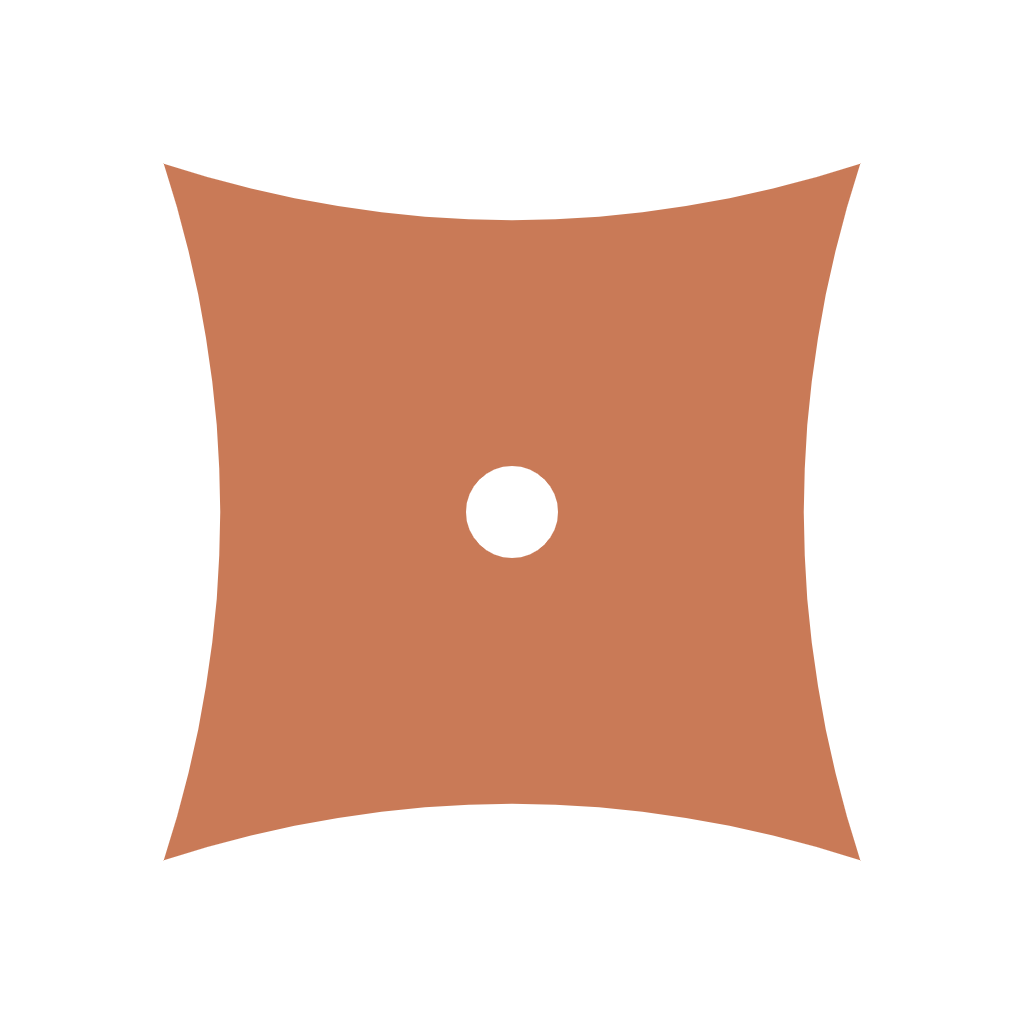
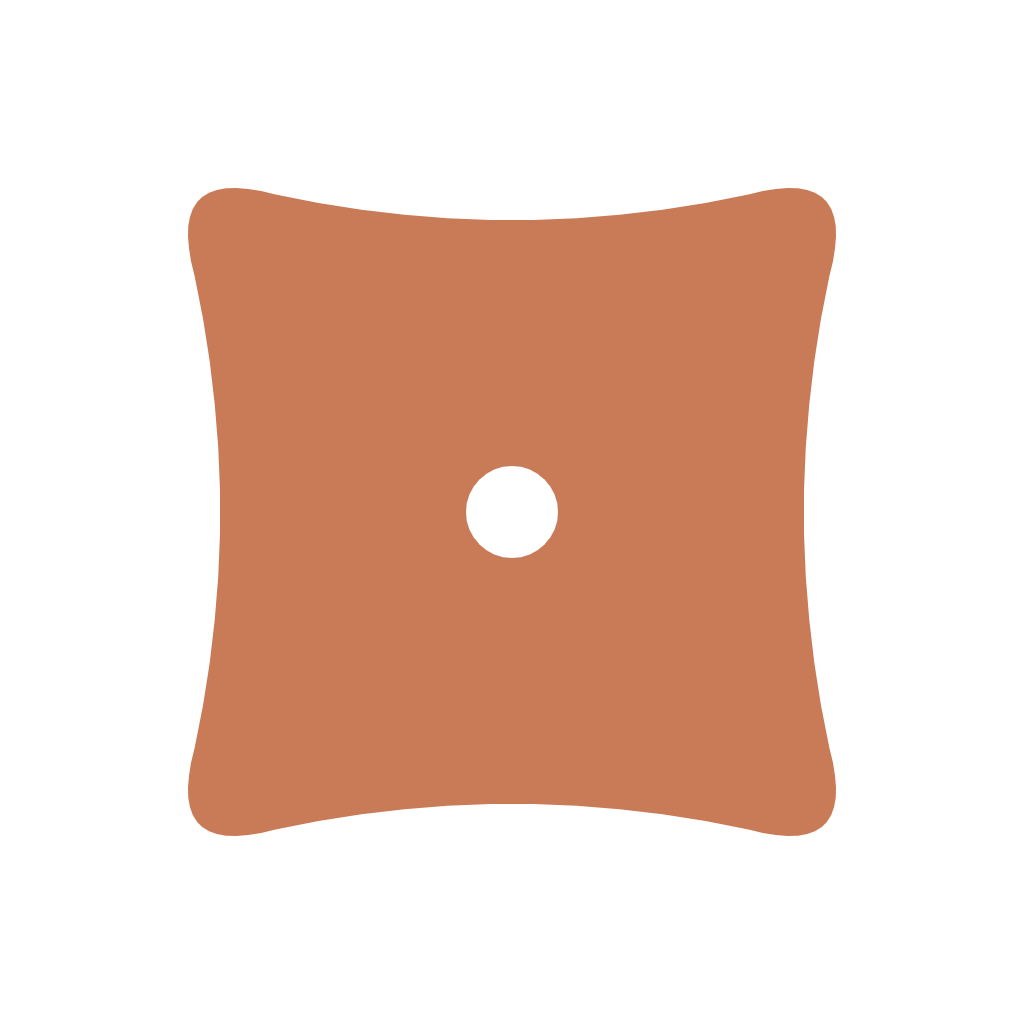
Soften the cushion's corners and keep the name beside it
- Round the mark's four corners
- Header shows the cushion with "Habitaste" written beside it
- Re-export the brand PNGs, and add white- and black-background
  versions with breathing space (not used on the site)

diff --git a/components/wordmark.tsx b/components/wordmark.tsx
@@ -4,7 +4,7 @@ import Link from "next/link";
 import { usePathname } from "next/navigation";
 
 // The cushion mark; the button is a hole, so it sits on any background.
-const CUSHION = "M16 16Q50 27 84 16Q73 50 84 84Q50 73 16 84Q27 50 16 16ZM54.5 50a4.5 4.5 0 1 0-9 0a4.5 4.5 0 1 0 9 0Z";
+const CUSHION = "M26.9 19Q50 24 73.1 19Q84 16 81 26.9Q76 50 81 73.1Q84 84 73.1 81Q50 76 26.9 81Q16 84 19 73.1Q24 50 19 26.9Q16 16 26.9 19ZM54.5 50a4.5 4.5 0 1 0-9 0a4.5 4.5 0 1 0 9 0Z";
 
 export function Wordmark({ className = "", mark = false }: { className?: string; mark?: boolean }) {
   const pathname = usePathname();
@@ -17,18 +17,17 @@ export function Wordmark({ className = "", mark = false }: { className?: string;
         e.preventDefault();
         window.scrollTo({ top: 0, behavior: matchMedia("(prefers-reduced-motion: reduce)").matches ? "auto" : "smooth" });
       }}
-      className={`font-serif text-[1.65rem] leading-none tracking-tight ${className}`}
+      className={`inline-flex items-center gap-1.5 font-serif text-[1.65rem] leading-none tracking-tight ${className}`}
       aria-label="Habitaste — home page"
     >
-      {mark ? (
-        <svg viewBox="0 0 100 100" className="size-10 text-terracotta" aria-hidden>
+      {mark && (
+        <svg viewBox="0 0 100 100" className="size-9 text-terracotta" aria-hidden>
           <path fill="currentColor" fillRule="evenodd" d={CUSHION} />
         </svg>
-      ) : (
-        <>
-          Habi<span className="italic text-clay">taste</span>
-        </>
       )}
+      <span>
+        Habi<span className="italic text-clay">taste</span>
+      </span>
     </Link>
   );
 }
